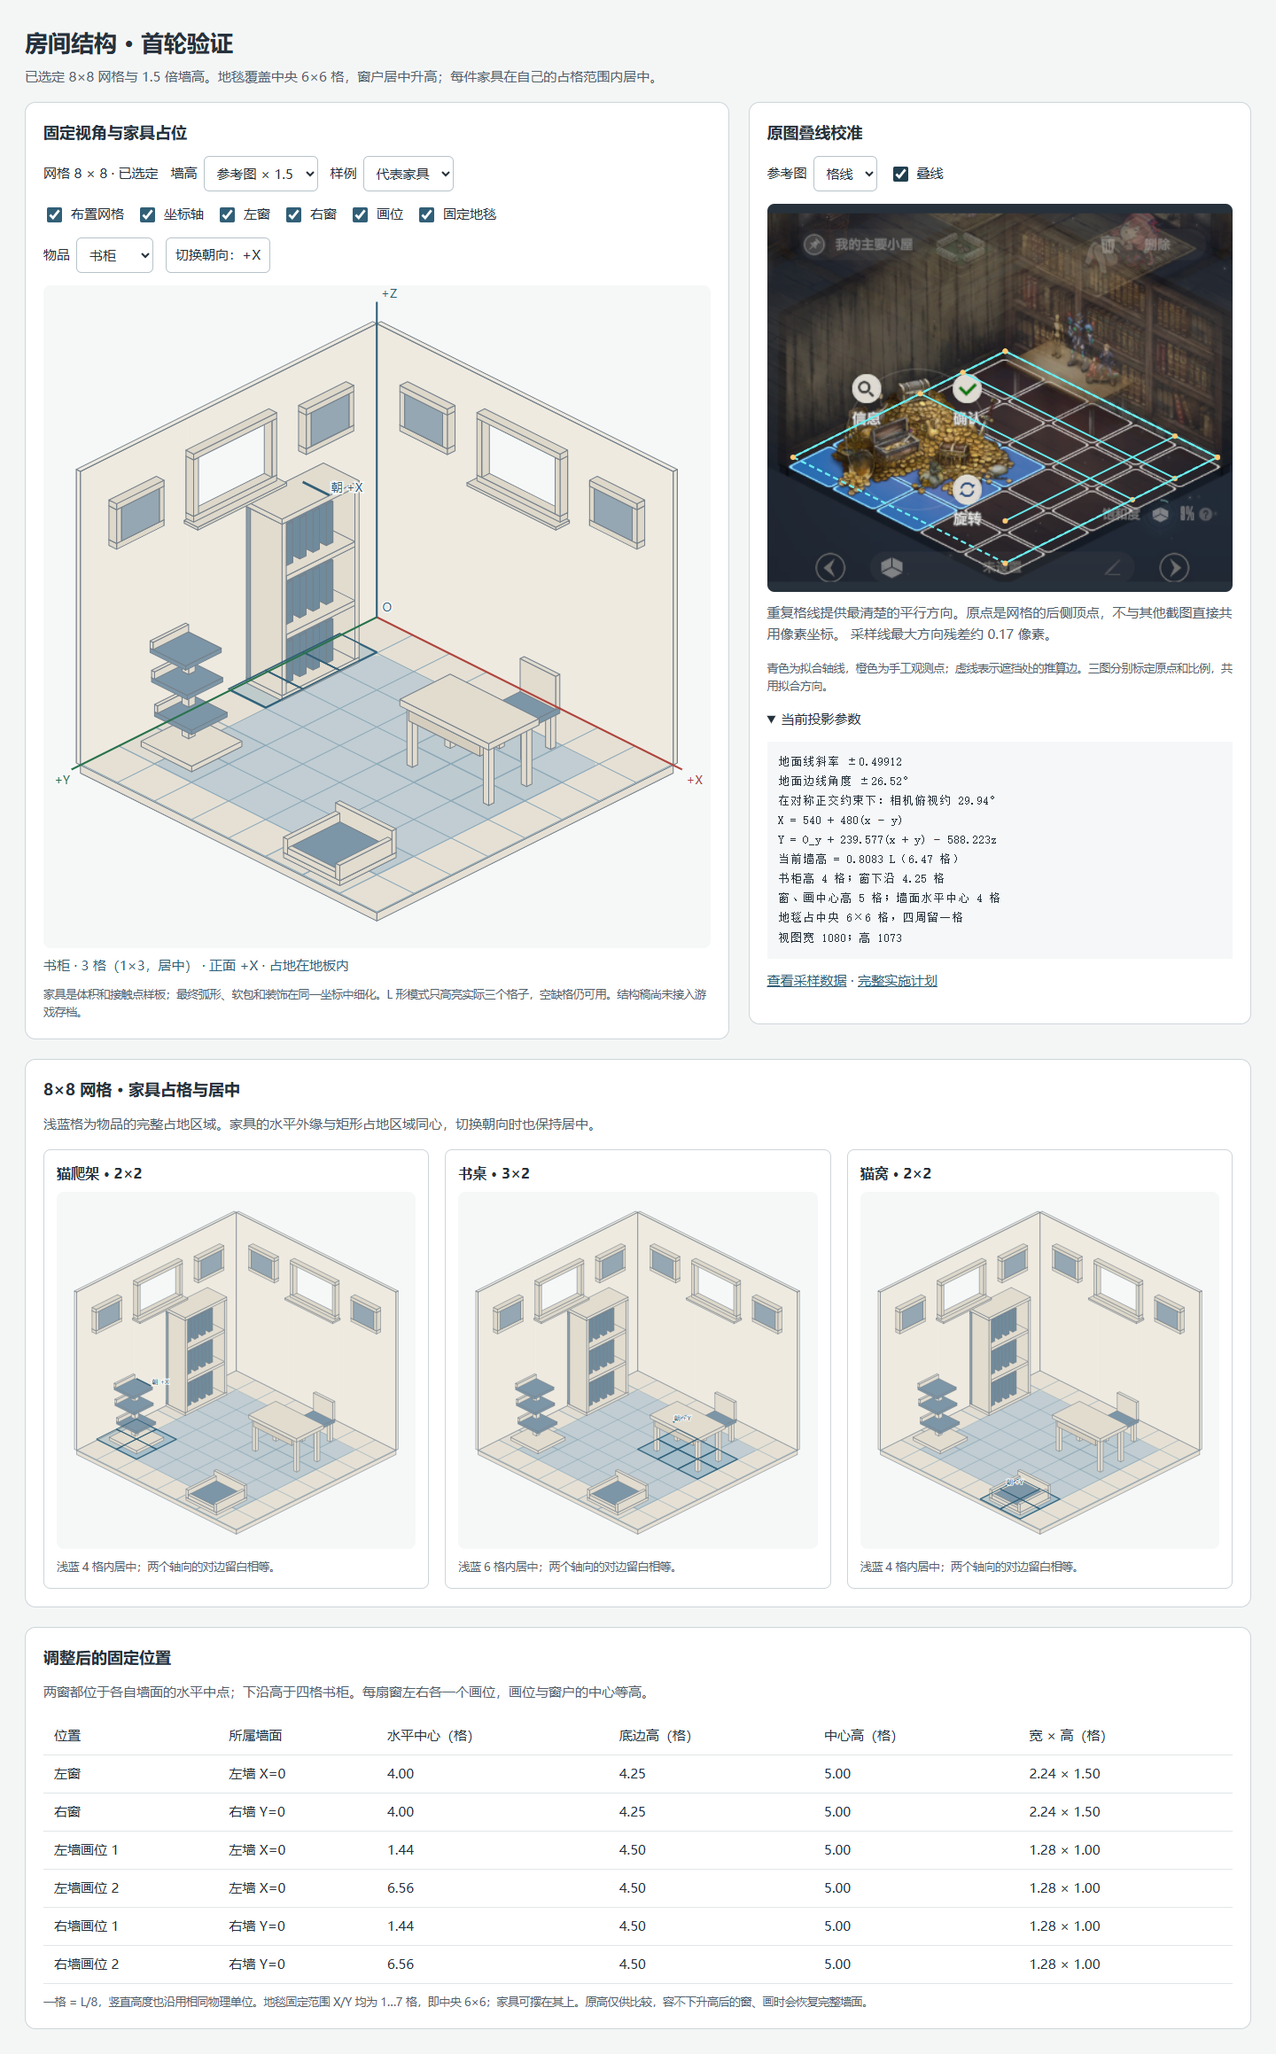
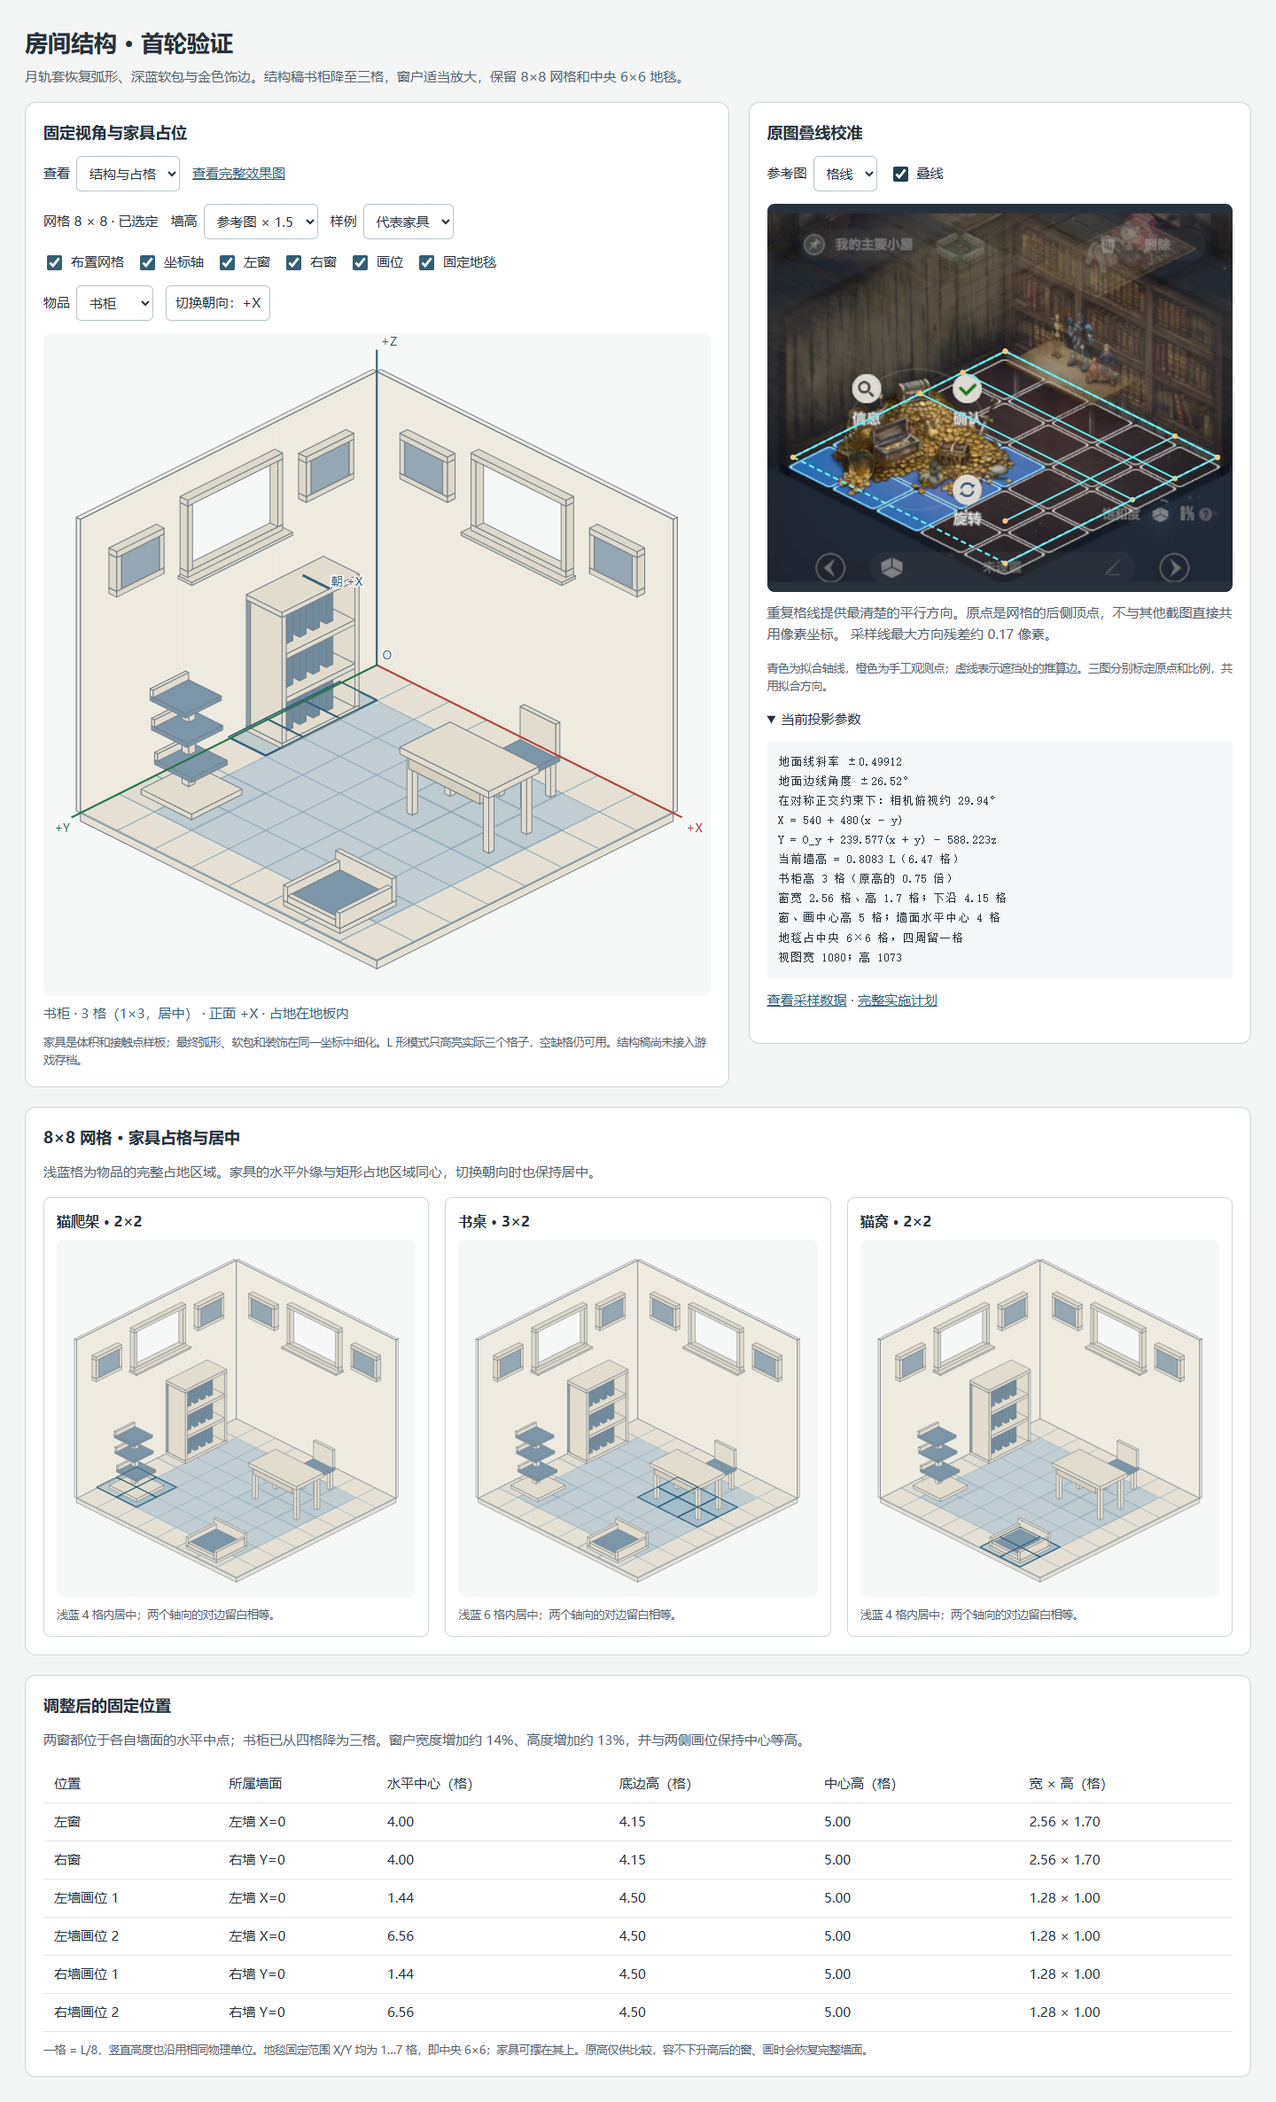
feat: preview lunar furniture with shorter shelves and larger windows

diff --git a/design/room-structure-2026-10-05/index.html b/design/room-structure-2026-10-05/index.html
@@ -4,7 +4,7 @@
 <link rel="icon" href="data:,"><title>房间结构 · 首轮验证</title>
 <style>
 :root{color-scheme:light;--ink:#25313b;--muted:#52616c;--line:#cdd5d9;--paper:#fff;--canvas:#f4f6f6;--accent:#315f77}
-*{box-sizing:border-box}body{margin:0;background:var(--canvas);color:var(--ink);font:15px/1.6 system-ui,"Microsoft YaHei",sans-serif}
+*{box-sizing:border-box}[hidden]{display:none!important}.styled-room{display:block;width:100%;border-radius:8px}body{margin:0;background:var(--canvas);color:var(--ink);font:15px/1.6 system-ui,"Microsoft YaHei",sans-serif}
 main{max-width:1450px;margin:auto;padding:28px}h1{font-size:26px;font-weight:600;margin:0 0 5px}h2{font-size:18px;margin:0 0 12px;font-weight:600}h3{font-size:16px;margin:0 0 8px}p{margin:0 0 16px;color:var(--muted)}a{color:var(--accent)}
 .board{display:grid;grid-template-columns:minmax(0,1.4fr) minmax(0,1fr);gap:22px;align-items:start}
 section{background:var(--paper);border:1px solid var(--line);border-radius:12px;padding:20px}
@@ -20,10 +20,12 @@ details{margin-top:16px}summary{cursor:pointer}pre{font:13px/1.7 ui-monospace,mo
 </style>
 <main>
 <h1>房间结构 · 首轮验证</h1>
-<p>已选定 8×8 网格与 1.5 倍墙高。地毯覆盖中央 6×6 格，窗户居中升高；每件家具在自己的占格范围内居中。</p>
+<p>月轨套恢复弧形、深蓝软包与金色饰边。结构稿书柜降至三格，窗户适当放大，保留 8×8 网格和中央 6×6 地毯。</p>
 <div class="board">
 <section>
-<h2>固定视角与家具占位</h2>
+<h2 id="scene-heading">月轨套 · 家具效果</h2>
+<div class="controls"><label>查看 <select id="presentation"><option value="styled" selected>家具效果稿</option><option value="structure">结构与占格</option></select></label><a href="lunar-style-v2.png" target="_blank" rel="noopener">查看完整效果图</a></div>
+<div id="structure-controls" hidden>
 <div class="controls">
 <span>网格 8 × 8 · 已选定</span>
 <label>墙高 <select id="height"><option value="1.5" selected>参考图 × 1.5</option><option value="1">参考图原高</option></select></label>
@@ -41,9 +43,12 @@ details{margin-top:16px}summary{cursor:pointer}pre{font:13px/1.7 ui-monospace,mo
 <label>物品 <select id="selected"><option value="bookshelf">书柜</option><option value="desk">书桌</option><option value="chair">椅子</option><option value="tree">猫爬架</option><option value="bed">猫窝</option></select></label>
 <button id="turn" type="button">切换朝向：+X</button>
 </div>
-<svg id="room" class="scene" role="img" aria-label="统一投影的房间结构、家具和占格"></svg>
+</div>
+<img id="styled-room" class="styled-room" src="lunar-style-v2.png" alt="月轨家具整屋效果稿：较低书柜、两侧高窗、弧形桌椅、开放猫窝和月牙猫爬架">
+<p id="style-note" style="margin-top:12px">整屋美术效果稿用于查看造型与配色。切换“结构与占格”查看精确布局及两种朝向；生成图中的边线和格数还需在正式单品制作时按模板校正。</p>
+<svg id="room" class="scene" role="img" aria-label="统一投影的房间结构、家具和占格" hidden></svg>
 <div id="status" class="status" aria-live="polite"></div>
-<small>家具是体积和接触点样板；最终弧形、软包和装饰在同一坐标中细化。L 形模式只高亮实际三个格子，空缺格仍可用。结构稿尚未接入游戏存档。</small>
+<small id="structure-note">家具是体积和接触点样板；最终弧形、软包和装饰在同一坐标中细化。L 形模式只高亮实际三个格子，空缺格仍可用。结构稿尚未接入游戏存档。</small>
 </section>
 <section>
 <h2>原图叠线校准</h2>
@@ -60,7 +65,7 @@ details{margin-top:16px}summary{cursor:pointer}pre{font:13px/1.7 ui-monospace,mo
 <p>浅蓝格为物品的完整占地区域。家具的水平外缘与矩形占地区域同心，切换朝向时也保持居中。</p>
 <div id="comparisons" class="compare-grid"></div>
 </section>
-<section style="margin-top:22px"><h2>调整后的固定位置</h2><p>两窗都位于各自墙面的水平中点；下沿高于四格书柜。每扇窗左右各一个画位，画位与窗户的中心等高。</p>
+<section style="margin-top:22px"><h2>调整后的固定位置</h2><p>两窗都位于各自墙面的水平中点；书柜已从四格降为三格。窗户宽度增加约 14%、高度增加约 13%，并与两侧画位保持中心等高。</p>
 <div class="table-wrap"><table><thead><tr><th>位置</th><th>所属墙面</th><th>水平中心（格）</th><th>底边高（格）</th><th>中心高（格）</th><th>宽 × 高（格）</th></tr></thead><tbody id="slot-table"></tbody></table></div>
 <small>一格 = L/8，竖直高度也沿用相同物理单位。地毯固定范围 X/Y 均为 1…7 格，即中央 6×6；家具可摆在其上。原高仅供比较，容不下升高后的窗、画时会恢复完整墙面。</small>
 </section>

diff --git a/design/room-structure-2026-10-05/README.md b/design/room-structure-2026-10-05/README.md
@@ -1,6 +1,6 @@
 # 房间结构首轮样稿
 
-日期：2026-10-05。对应批准方案的 A1–A3。用户已确认 1.5 倍墙高、8×8 网格；本次调整中央地毯、居中高窗、左右画位和家具占格居中。当前仍为独立结构预览，没有接入主页、库存或存档。
+日期：2026-10-05。用户已确认 1.5 倍墙高、8×8 网格、中央地毯和家具居中。本次书柜降为原高的 0.75 倍，窗户适当放大，并沿用此前月轨套手稿制作整屋美术效果。当前仍为独立预览，没有接入主页、库存或存档。
 
 ## 查看
 
@@ -14,6 +14,8 @@ python design/room-structure-2026-10-05/serve.py
 
 ![结构样稿](structure-preview.png)
 
+默认展示[月轨套效果稿](lunar-style-v2.png)，可切换“结构与占格”。效果稿恢复奶油白/深蓝/金色、拱形柜沿、雕饰窗框、曲线桌椅、月牙猫爬架与开放猫窝。制作来源与使用边界见 [美术记录](STYLE.md)。
+
 ## 已实现
 
 - 三张参考图分别记录采样原点和比例，共用加权拟合的地面方向。可切换原图与叠线；遮挡下的原点和地板前角明确标为推算。
@@ -22,7 +24,7 @@ python design/room-structure-2026-10-05/serve.py
 - 正式选定 8×8 网格；原 6/8/10 比较已改为 8×8 下的家具居中示例。
 - 书柜、书桌、椅子、猫爬架、猫窝结构实体，脚底/底座统一落在 Z=0，窗框和画框具备实体厚度。每件可切换 +X/+Y；方向切换通过实体构造完成。
 - L 形三格的两个朝向示例；缺角不占格。
-- 左右窗位均在各自墙面的水平中点，下沿高 4.25 格；书柜高 4 格。每扇窗两侧各一个画位，画位与窗户中心同高（5 格）。窗位为真实开口，暂不设置窗外景色；隐藏窗户后恢复完整墙面。
+- 书柜从四格降为三格；左右窗位均在各自墙面的水平中点，宽从 0.28L 增至 0.32L，高从 1.5 格增至 1.7 格，保持中心高 5 格（下沿 4.15 格）。每扇窗两侧各一个画位，与窗中心同高。窗位为真实开口，暂不设置窗外景色；隐藏窗户后恢复完整墙面。
 - 地毯固定覆盖中央 6×6 格，四周各留一格，允许家具摆在其上；可关闭显示。
 
 本轮代表家具已改为整数格锚点与明确的矩形占格，水平外缘中心和占格矩形中心重合；切换朝向时旋转占格和实体后重新居中。后续布置阶段将增加拖动吸附和确认流程。L 形示例仍严格只占三个格子。
@@ -53,7 +55,7 @@ O_y = 62 + 316.981132 × 墙高倍率
 
 `calibration.json` 保存手工观测线、权重、来源尺寸和推算说明；`geometry.mjs` 使用这些数据计算上述参数，预览和测试使用同一模块。格线参考的最大方向残差约 0.17 px，三图最大约 2.33 px。采样是人工近似，残差仅验证采样线方向，不保证原画每个边缘都精确吻合。
 
-调整后的挂位坐标见预览表格，采用格子物理边长 L/8 作为高度单位。窗下沿 4.25 格，窗高 1.5 格；画位高 1 格，与窗中心等高。地毯范围 X/Y 均为 0.125…0.875（1…7 格），四角使用半径 0.02 L 的轻微圆角。原墙高不足以容纳升高的窗画，因此原高对比暂不显示窗画，恢复完整墙面。
+调整后的挂位坐标见预览表格，采用格子物理边长 L/8 作为高度单位。窗下沿 4.15 格，窗高 1.7 格；画位高 1 格，与窗中心等高。地毯范围 X/Y 均为 0.125…0.875（1…7 格），四角使用半径 0.02 L 的轻微圆角。原墙高不足以容纳升高的窗画，因此原高对比暂不显示窗画，恢复完整墙面。
 
 ## 验证
 
@@ -65,11 +67,11 @@ node design/room-structure-2026-10-05/browser.test.cjs
 浏览器检查使用项目现有 `.tooling/browser/node_modules/playwright-core` 和隔离的 Edge 无头会话；不访问登录或用户日常浏览器资料。可通过 `ROOM_STUDY_BROWSER` 指定其他兼容浏览器路径。
 
 - 几何测试 8 项通过：参考方向残差、投影往返、增高不缩地板、L 形连通与旋转、边界、8×8 下全部 32 种家具朝向组合的互斥占格、矩形两朝向居中、中央 36 格地毯、窗画位置与高度关系。
-- 浏览器验证 20 个墙高/单件朝向状态，家具部件不超过自身水平外缘、占格无冲突、两方向居中；检查固定地毯参数、窗画高度、空房、L 形、显示开关、原图加载和墙高切换。
+- 浏览器验证 20 个墙高/单件朝向状态，家具部件不超过自身水平外缘、占格无冲突、两方向居中；检查固定地毯参数、窗画高度、空房、L 形、显示开关、原图加载、墙高切换、效果图加载和视图切换。
 - 390 px 手机宽度无页面横向溢出；全部图片/模块加载成功，无浏览器错误。
 
-结果保存在 `verification.json`；桌面和手机截图为 `preview-desktop.png`、`preview-mobile.png`。生产 Flutter 文件和依赖均未改动，本轮不声明已完成主页集成或生产回归。
+结果保存在 `verification.json`；结构截图为 `preview-desktop.png`、`preview-mobile.png`，美术视图截图为 `styled-desktop.png`、`styled-mobile.png`。生产 Flutter 文件和依赖均未改动，本轮不声明已完成主页集成或生产回归。
 
 ## 下一确认点
 
-墙高与 8×8 网格已经确认。按用户本次要求先审阅窗画高度、中央地毯与家具居中调整；通过后进入方案阶段 B：拖动、吸附、冲突预览、确认/取消、测试库存与数量限制。正式单品的弧形与装饰随后在这个坐标系内制作。
+结构已基本认可。本轮供审阅书柜与窗户的微调、月轨套填入后的造型和配色。后续单品以精确模板为准分别制作两个朝向，并继续阶段 B 的拖动、吸附、冲突预览、确认/取消和数量限制；整屋生成图不作为生产布局或独立家具素材。

diff --git a/design/room-structure-2026-10-05/STYLE.md b/design/room-structure-2026-10-05/STYLE.md
@@ -1,0 +1,34 @@
+# 月轨套填入效果记录
+
+日期：2026-10-05。用户要求书柜高降至现高 0.75 倍，窗户稍大，并根据之前手稿查看家具填入后的整体效果。
+
+## 精确结构调整
+
+- 书柜世界高度 0.5L → 0.375L，即四格 → 三格；占格、底部落点、居中规则不变。
+- 窗宽 0.28L → 0.32L（+14.3%），窗高 0.1875L → 0.2125L（+13.3%）。两窗仍在墙面中点，中心高 0.625L；两侧画位中心高度不变。
+- 8×8 地板、1.5 倍墙高、中央 6×6 固定地毯和五类家具格锚点不变。
+
+## 美术输入
+
+1. `style-blockout.png`：在当前精确模型上关闭辅助轴与网格后导出，作为构图依据。
+2. `../art/reference-model/lunar-style-v2.png`：之前弧形饰边版月轨套，作为造型、配色、雕饰参考；不沿用其旧相机和位置。
+3. `../art/modern-bed-options/bed-a-lunar-open-v2.png`：低沿开放猫窝，作为睡眠区域尽量可见的造型依据。
+
+使用内置 imagegen 编辑，未调用外部 API，也未改变旧手稿。新生成图均复制到本设计目录，原文件保留。
+
+- 首稿：`lunar-style-draft-v1.png`，来源 `C:/Users/26424/.codex/generated_images/01a0f0fc-2dd7-7172-b3b7-fb13e4ef7421/exec-717f42ce-fbc5-4f35-8d3d-5ef75b4a8ab5.png`。
+- 校正稿：`lunar-style-v2.png`，来源 `C:/Users/26424/.codex/generated_images/01a0f0fc-2dd7-7172-b3b7-fb13e4ef7421/exec-13bfd70f-9eed-4403-af1d-95952db53dde.png`。本版作为预览默认展示。
+
+## 提示词要点
+
+首轮：以新结构图为编辑目标，以旧套系和开放猫窝为造型参考。严格要求固定平行投影、较高双墙、短三层书柜、两侧居中高窗、四个画位、五件家具居中落在原位置、中央 6×6 大地毯。恢复奶油白、深蓝、哑光金线，书柜浅拱与月牙、厚窗框和画框、曲线桌腿和包裹软包椅、圆形平台/月牙猫爬架、低沿开放软包猫窝。保留星空猫爪和戴珍珠耳环的猫题材，横竖画幅分别保留。窗外暂空，不添加猫、灯或额外家具；不使用投射阴影或场景光源。
+
+第二轮：针对首稿墙脚位置、地毯大小发生偏移，再以精确结构图为第一输入，首稿只作美术参考。强调后墙脚约在画布 (50%,50.1%)、左右墙脚 (5.5%,72.3%)/(94.5%,72.3%)、地板前角 (50%,94.5%)；中央地毯四角约 (50%,55.7%)、(16.6%,72.3%)、(83.4%,72.3%)、(50%,89%)，用于约束较扁的地面菱形和大地毯。
+
+## 审阅与使用边界
+
+此处交付的是整屋美术方向样稿，可查看装饰、颜色和整体搭配。第二轮扩大了地毯并改善墙体与地面的比例，保留低书柜、开放猫窝和窗画配置，但生成图仍存在地面边线、格数、轮廓和位置的近似；不能声称它逐像素遵守坐标模型。
+
+结构视图的尺寸、占格及两种朝向已通过几何/浏览器测试，美术图的加载与切换亦通过检查。这些测试不证明生成图本身的格子、轮廓和所有家具落点都精确。
+
+正式家具需要按 `geometry.mjs` 的模板单独制作 +X/+Y 外观和锚点，并逐件检查厚度、完整水平外缘、遮挡和透明边缘。整张生成图不会代替房间图层、布置实例或游戏存档，生产 Flutter 素材尚未替换。

diff --git a/docs/plans/room-redesign-2026-10-05/README.md b/docs/plans/room-redesign-2026-10-05/README.md
@@ -48,7 +48,7 @@
 ### 本轮样稿修订
 
 - 1.5 倍墙高和 8×8 网格已确认，投影与地板显示宽度保持。
-- 窗户在各自墙面的水平中点；以书柜高四格为基准，本轮把窗户下沿设在 4.25 格，窗高 1.5 格。
+- 窗户在各自墙面的水平中点；最新反馈把书柜从四格降至三格（原高 0.75 倍），窗宽增至 0.32L、高 1.7 格，下沿 4.15 格，中心保持 5 格。
 - 两堵墙每扇窗左右各一个画位，画位与窗户中心等高（5 格）；保持实际作品画幅的规则不变。
 - 地毯固定覆盖中央 6×6 格，即 X/Y 均从第 1 格边界到第 7 格边界。
 - 矩形占格物品的完整水平外缘在占格矩形中居中；两种朝向都重算中心位置。示例书柜 1×3、桌子 3×2、椅子 1×1、猫爬架/猫窝 2×2，每款后续仍可独立规定占格。
@@ -289,6 +289,8 @@ Rive 提供骨骼和动画编辑能力及 Flutter 运行支持，可作为以后
 
 阶段 A 已交付[独立结构样稿](../../../design/room-structure-2026-10-05/README.md)，包含三图叠线、原高/1.5 倍墙高、6/8/10 格对比、五类实体占位、两个朝向、L 形占格、两个独立窗位、四个候选挂位和固定地毯。
 
-首轮比较验证完成后，用户选定 8×8 网格与 1.5 倍墙高。最新修订采用中央 6×6 地毯、高于四格书柜的居中窗位、左右同中心高度画位，以及各家具在矩形占格区域居中。
+首轮比较验证完成后，用户选定 8×8 网格与 1.5 倍墙高，并认可中央 6×6 地毯、居中高窗及家具居中。最新修订把书柜降为三格，窗户宽/高增加约 14%/13%，保持两侧画位与窗中心等高。
+
+根据用户要求沿用之前月轨套手稿，生成了[整屋美术效果稿与记录](../../../design/room-structure-2026-10-05/STYLE.md)，与精确结构视图在同一预览中切换。整图供审阅造型配色，不能替代独立家具素材或精确布局验证。
 
 最新几何测试 8 项、浏览器 20 个状态及 390 px 手机检查通过。8×8 下全部 32 种家具朝向组合已验证互斥占格与外缘覆盖。当前仍为结构样稿；阶段 B/C 的拖动、库存、存档和主页集成尚未实施。
